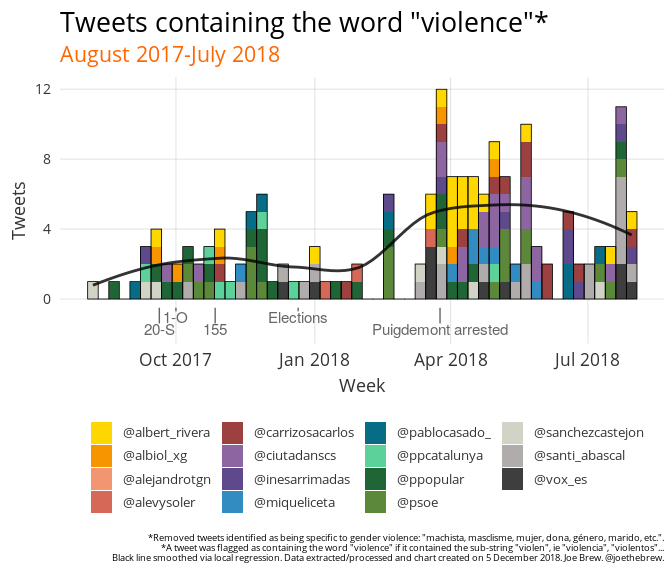
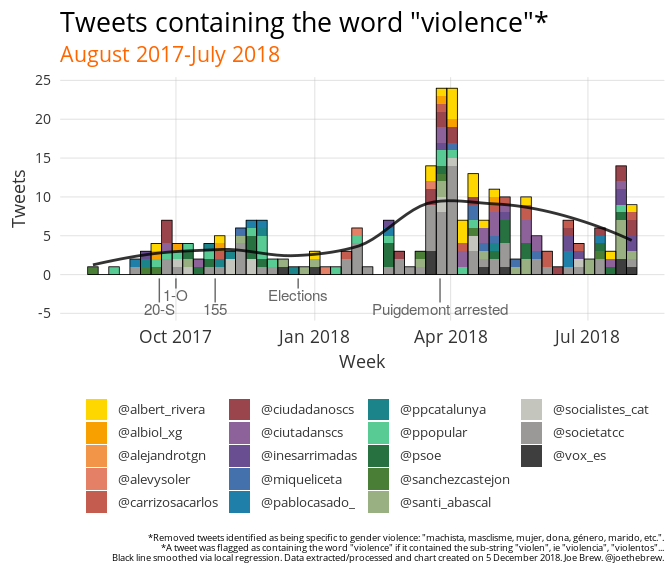
minor changes

diff --git a/inst/rmd/el_relat_de_la_violencia/post.md b/inst/rmd/el_relat_de_la_violencia/post.md
@@ -20,7 +20,7 @@ If there was indeed a violent uprising or violent rebellion in Catalonia in Sept
 The data
 --------
 
-We examined tweets from the year beginning in August 2017. We limited our analysis to individuals and groups which are most opposed to the Catalan independence movement, since these accounts were most likely to discuss the supposed violence of independentists. In total, our analysis covered 227890 tweets from 22 twitter accounts.
+We examined tweets from the year beginning in August 2017. We limited our analysis to individuals and groups which are most opposed to the Catalan independence movement, since these accounts were most likely to discuss the supposed violence of independentists. In total, our analysis covered 313195 tweets from 26 twitter accounts.
 
 The results
 -----------
@@ -35,7 +35,7 @@ It is clear in the above chart that tweets about "violence" did not spike during
 
 For example, the Partido Popular made no mentions of "violence" during the 3 days following the September 20th protest for which "the Jordis" are now imprisoned. However, on September 24th, they - along with now Spanish President Pedro Sánchez (who also made no mentions of the "violence" of September 20th) - tweeted about an unrelated assault in Zaragoza:
 
-<table style="width:50%">
+<table style="width:100%">
 <tr>
     <td><img src="img/pp.png" /></td>
     <td><img src="img/sanchez.png" /></td>
